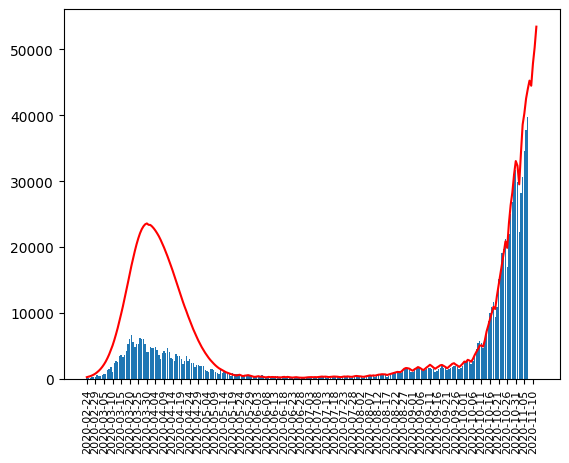
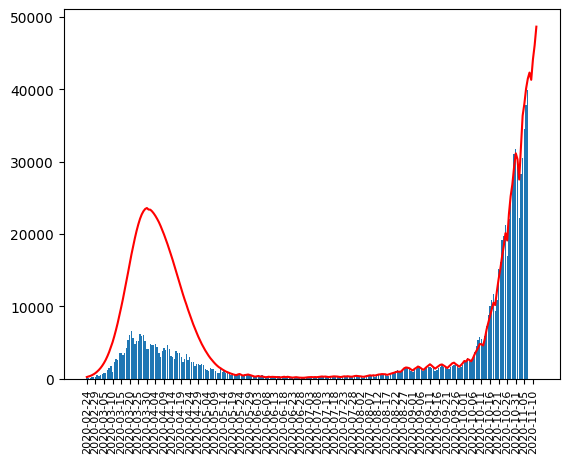
improve the reinforcement learning

diff --git a/forecast.py b/forecast.py
@@ -75,6 +75,7 @@ for i in range(predict_more_day):
 predicted_data = []
 moving_7_day_sum = 0
 trend_direction = 0
+trend_limit = {'min': 3.0, 'max': 4.5, 'now': 3.0, 'error': 0.01}
 for i in range(total):
     n = new_case_at_day(i, len(data['nuovi_positivi']), until_now, peak)
     sample_from_n_days_ago = 7
@@ -83,9 +84,9 @@ for i in range(total):
         moving_7_day_sum += real_data[i]
         if i > 0:
             if real_data[i] > real_data[i - 1]:
-                trend_direction = min(trend_direction + 1, 3.8)
+                trend_direction = min(trend_direction + 1, trend_limit['now'])
             else:
-                trend_direction = max(trend_direction - 1, -3.8)
+                trend_direction = max(trend_direction - 1, -trend_limit['now'])
     else:
         moving_7_day_sum += (1 + trend_direction * 0.1) * real_data[i - sample_from_n_days_ago]
 
@@ -101,6 +102,12 @@ for i in range(total):
         else:
             n = (1 + trend_direction * 0.1) * moving_7_day_sum / 7
     n = int(round(n))
+
+    print(trend_limit['now'])
+    if real_data[i - 1] > 0 and n / real_data[i - 1] > 1.0 + trend_limit['error']:
+        trend_limit['now'] = max(trend_limit['now'] - 0.1, trend_limit['min'])
+    if n > 0 and real_data[i - 1] / n > 1.0 + trend_limit['error']:
+        trend_limit['now'] = min(trend_limit['now'] + 0.1, trend_limit['max'])
 
     predicted_data.append(n)
 

diff --git a/README.md b/README.md
@@ -12,11 +12,11 @@ I assume that peak day is 2020-03-30.
 ### predicted 5 days
 date        | new case
 ------------|----------
-2020-11-08	| 45264
-2020-11-09	| 44485
-2020-11-10	| 47832
-2020-11-11	| 50299
-2020-11-12	| 53459
+2020-11-08	| 42285
+2020-11-09	| 41287
+2020-11-10	| 44103
+2020-11-11	| 46064
+2020-11-12	| 48631
 
 
 ### Total
